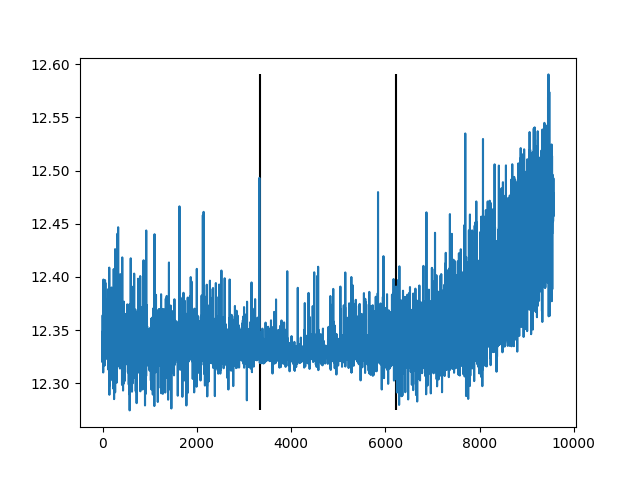
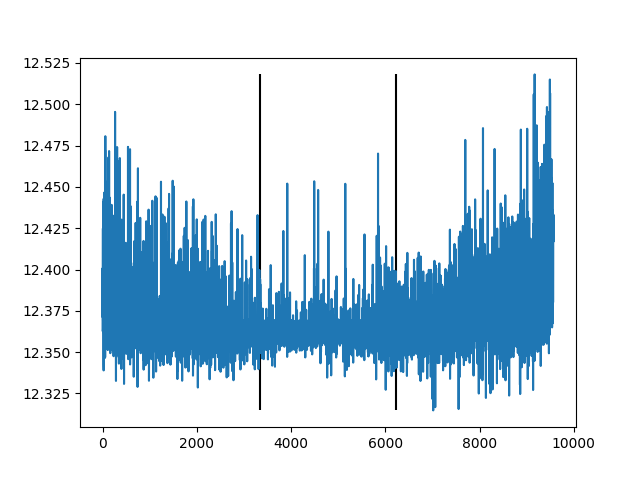
post iloc error

diff --git a/experiments/targetShift.py b/experiments/targetShift.py
@@ -34,7 +34,7 @@ for dataset in datasets:
         # Select smaller and bigger than splitting point
         train = X.iloc[split_point : X.shape[0] - split_point]
         pre = X.iloc[:split_point]
-        post = X.iloc[split_point:]
+        post = X.iloc[X.shape[0] - split_point:]
         test = pre.append(post)
 
         # Train Test Split
@@ -60,7 +60,8 @@ for dataset in datasets:
         file_name = str(model)+ '_'+str(dataset)+'_'+'full.png'
         fig_path = os.path.join(path_out, file_name)
         plt.savefig(fig_path)
-        plt.show()
+        plt.close()
+
 
 
         pred_test = clf.predict(X_te, uncertainty=0.05)
@@ -78,4 +79,4 @@ for dataset in datasets:
         file_name = str(model)+ '_'+str(dataset)+'_'+'kde.png'
         fig_path = os.path.join(path_out, file_name)
         plt.savefig(fig_path)
-        plt.show()
+        plt.close()
